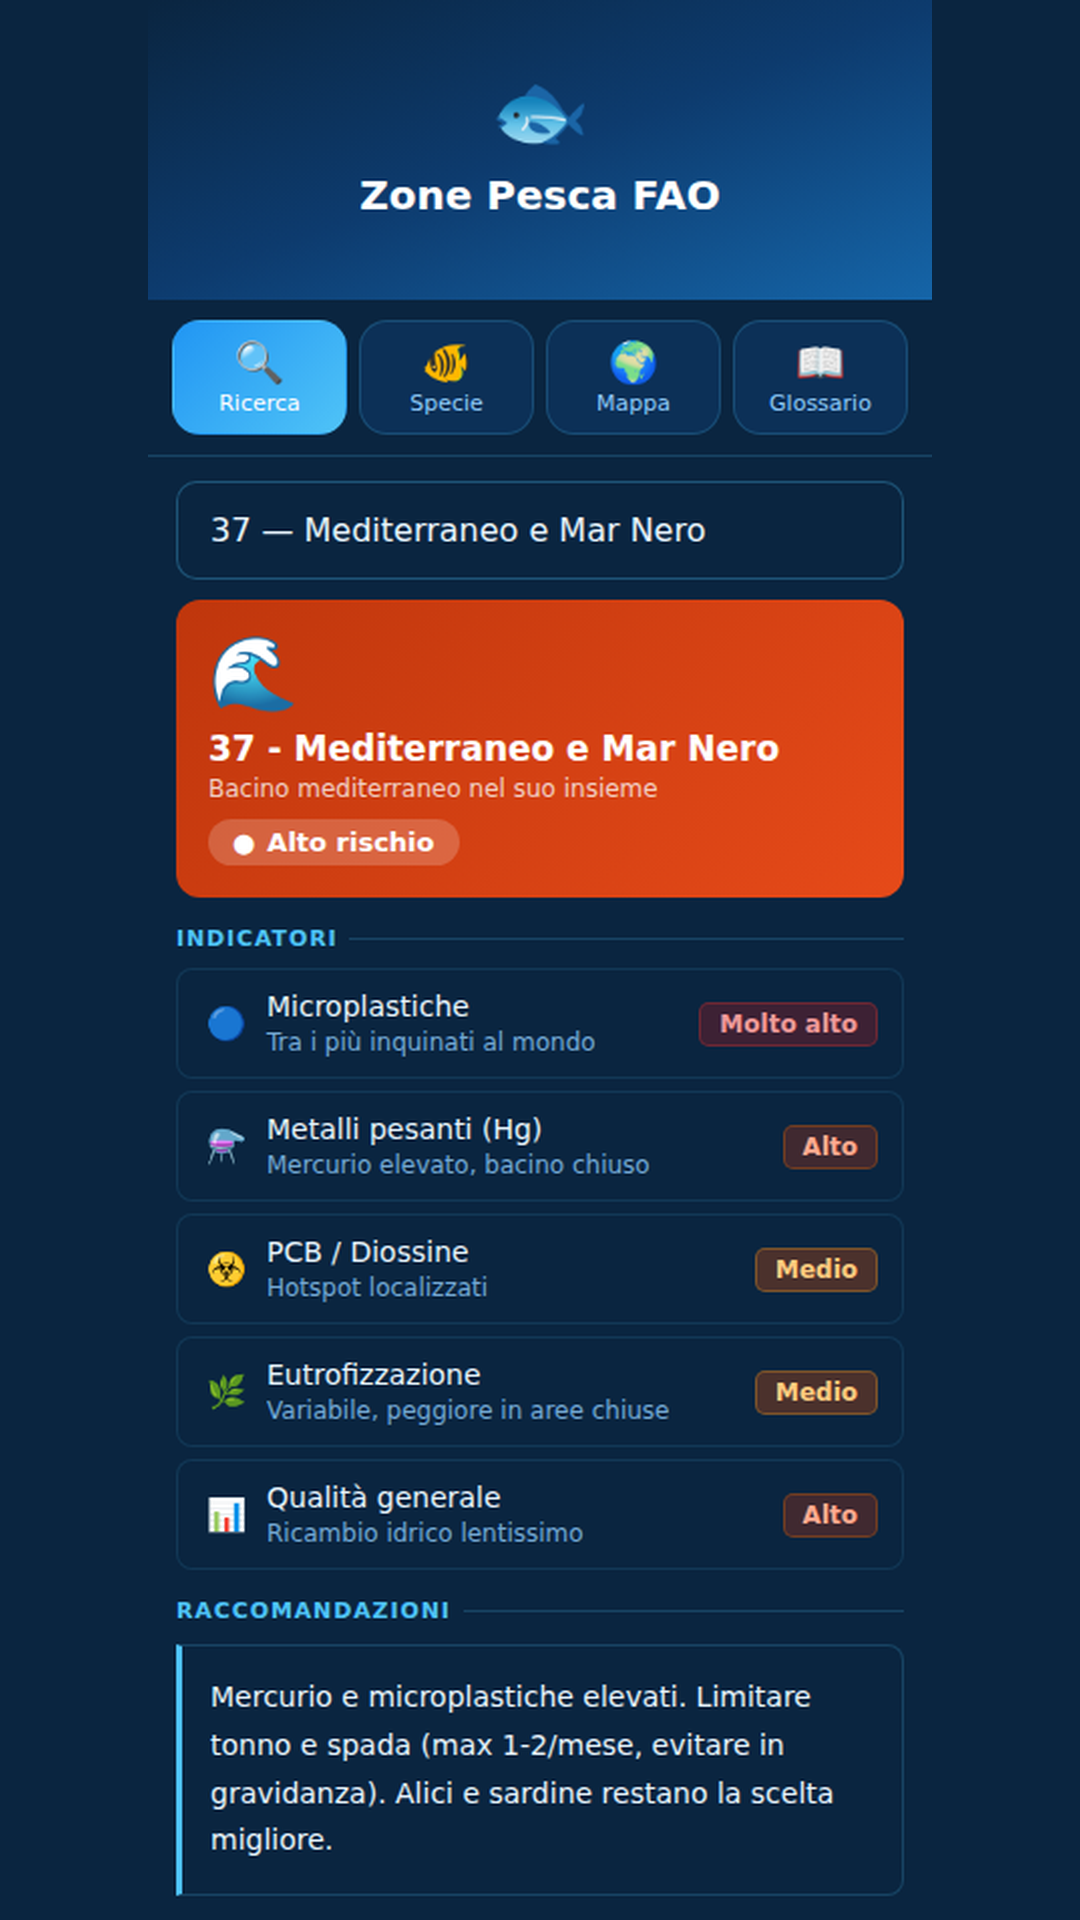
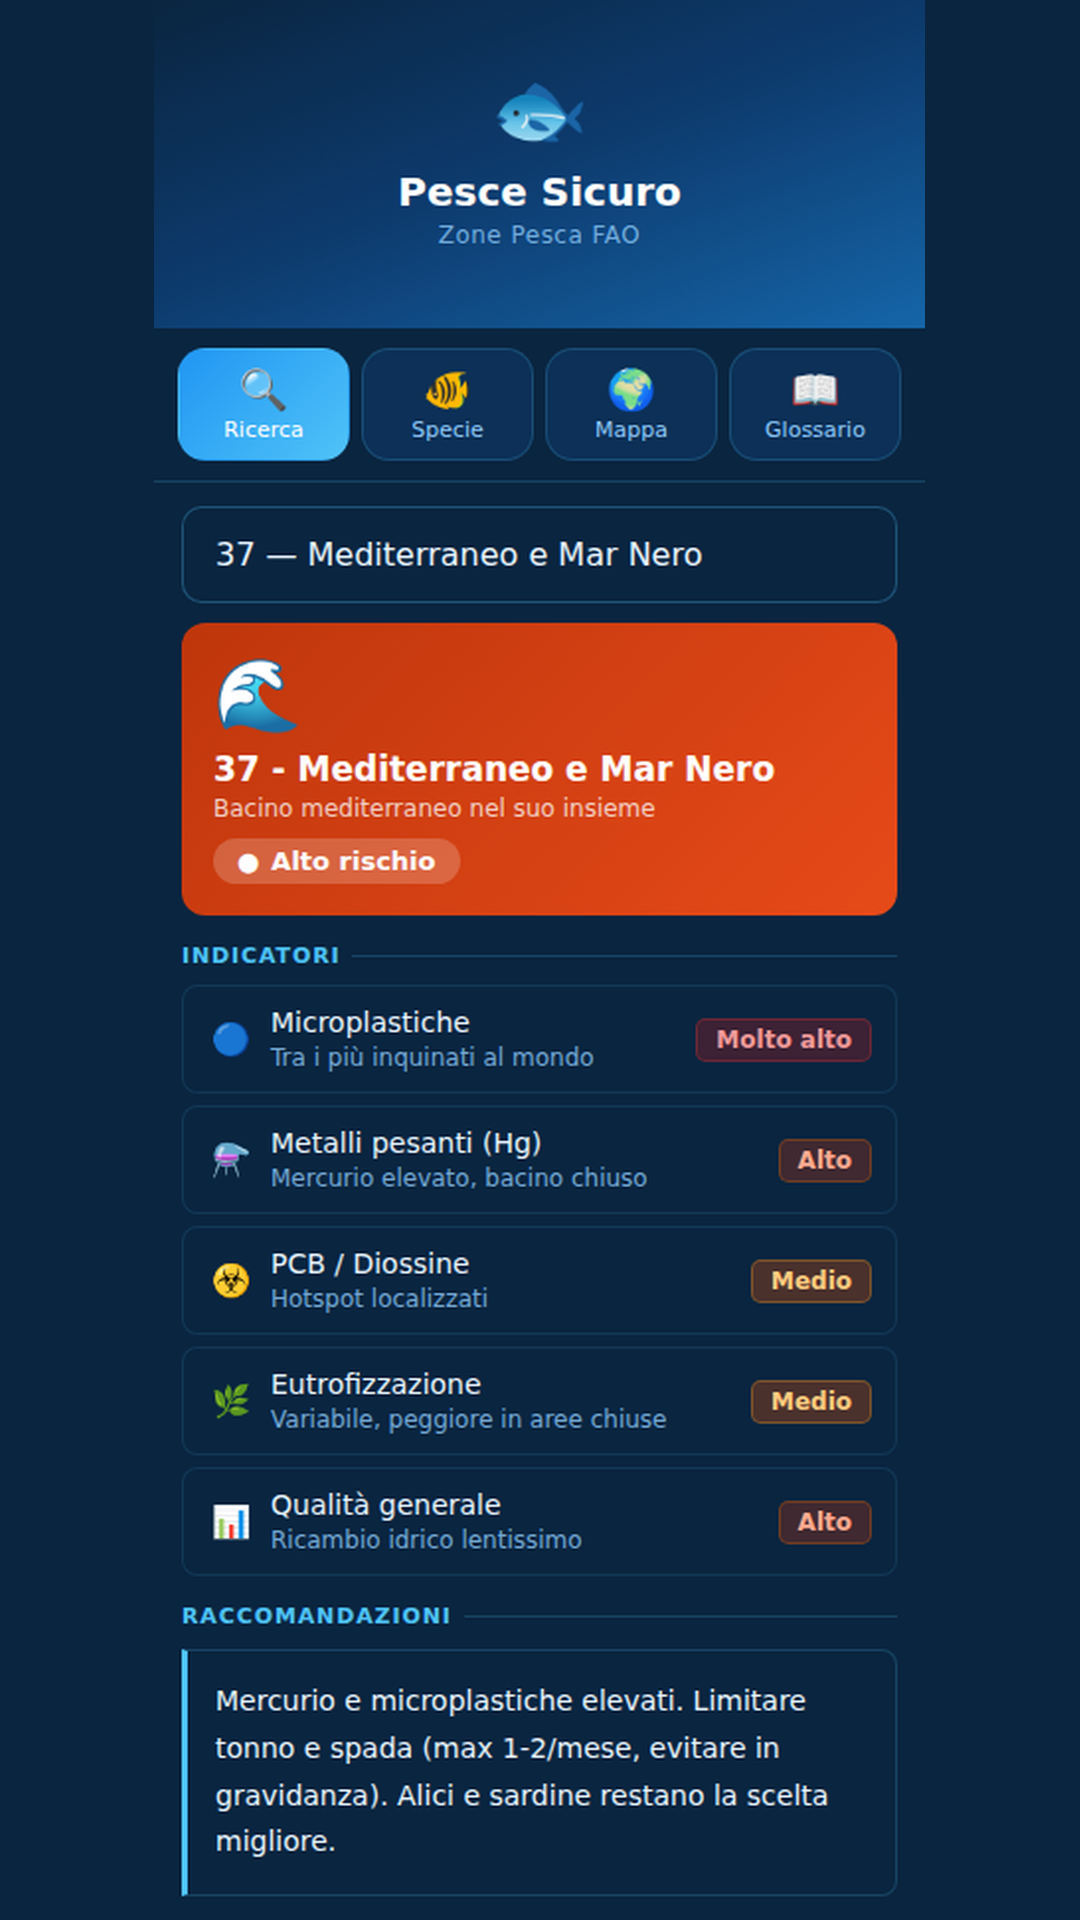
Modifica titoli

diff --git a/index.html b/index.html
@@ -3,11 +3,11 @@
 <head>
 <meta charset="UTF-8">
 <meta name="viewport" content="width=device-width, initial-scale=1.0, maximum-scale=1.0, user-scalable=no">
-<title>Zone Pesca FAO</title>
+<title>Pesce Sicuro</title>
 <meta name="theme-color" content="#0a2540">
 <meta name="mobile-web-app-capable" content="yes">
 <meta name="apple-mobile-web-app-capable" content="yes">
-<meta name="apple-mobile-web-app-title" content="PesceSicuro">
+<meta name="apple-mobile-web-app-title" content="Pesce Sicuro">
 <link rel="manifest" id="manifestLink">
 <link rel="apple-touch-icon" id="appleIcon">
 <style>
@@ -25,7 +25,7 @@ body{font-family:system-ui,-apple-system,sans-serif;background:var(--od);min-hei
 .hdr::before{content:'';position:absolute;inset:0;background:radial-gradient(ellipse at 50% 0%,rgba(79,195,247,0.15) 0%,transparent 70%)}
 .hdr-fish{font-size:clamp(32px,8vw,48px);display:block;margin-bottom:6px;filter:drop-shadow(0 0 16px rgba(79,195,247,0.6));animation:float 3s ease-in-out infinite}
 @keyframes float{0%,100%{transform:translateY(0) rotate(-3deg)}50%{transform:translateY(-8px) rotate(3deg)}}
-.hdr h1{font-size:clamp(16px,5vw,22px);font-weight:700;color:#fff;text-shadow:0 0 20px rgba(79,195,247,0.5)}
+.hdr h1{font-size:clamp(16px,5vw,22px);font-weight:700;color:#fff;text-shadow:0 0 20px rgba(79,195,247,0.5)}.hdr-sub{font-size:clamp(11px,2.8vw,13px);color:rgba(144,202,249,0.8);margin-top:3px;letter-spacing:0.04em}
 .bubbles{position:absolute;inset:0;pointer-events:none;overflow:hidden}
 .bubble{position:absolute;border-radius:50%;background:rgba(79,195,247,0.12);animation:rise linear infinite}
 @keyframes rise{0%{transform:translateY(100%) scale(0);opacity:0}20%{opacity:1}100%{transform:translateY(-200%) scale(1);opacity:0}}
@@ -138,7 +138,7 @@ input::placeholder{color:var(--td)}
 <div class="hdr">
   <div class="bubbles" id="bubbles"></div>
   <span class="hdr-fish">🐟</span>
-  <h1>Zone Pesca FAO</h1>
+  <h1>Pesce Sicuro</h1><p class="hdr-sub">Zone Pesca FAO</p>
   <svg class="wave" viewBox="0 0 1440 48" preserveAspectRatio="none" xmlns="http://www.w3.org/2000/svg">
     <path d="M0,24 C240,48 480,0 720,24 C960,48 1200,0 1440,24 L1440,48 L0,48 Z" fill="#0a2540"/>
   </svg>
@@ -212,7 +212,7 @@ input::placeholder{color:var(--td)}
 </div>
 
 <footer style="text-align:center;padding:0.5rem 1rem 0;font-size:11px;color:rgba(144,202,249,0.75);line-height:1.8">
-  © 2026 Cristiano Cinotti · Sviluppo Claude (Anthropic) · v 0.74<br>
+  © 2026 Cristiano Cinotti · Sviluppo Claude (Anthropic) · v 0.75<br>
   <span onclick="var p=document.getElementById('creditsPanel');p.style.display=p.style.display==='none'?'block':'none';p.scrollIntoView({behavior:'smooth',block:'nearest'})" style="cursor:pointer;text-decoration:underline;color:rgba(144,202,249,0.9)">Info &amp; crediti</span>
 </footer>
 <div id="creditsPanel" style="display:none;margin:0.5rem 1rem 1.5rem;border-radius:16px;background:linear-gradient(160deg,#0d3b6e,#0a2540);border:0.5px solid rgba(79,195,247,0.3);padding:1.25rem">
@@ -450,7 +450,7 @@ function buildGlossary(){
   var out=document.getElementById('glossCard');if(out.innerHTML)return;
   var html='';
   for(var i=0;i<GLOSSARY.length;i++){var g=GLOSSARY[i];html+='<div class="gl-item"><div class="gl-hdr" onclick="toggleGl('+i+')"><span class="gl-icon">'+g.icon+'</span><span class="gl-term">'+g.term+'</span><span class="gl-arr" id="ga'+i+'">›</span></div><div class="gl-body" id="gb'+i+'">'+g.body+'<br><span class="gl-tag '+g.tag.cls+'">'+g.tag.text+'</span></div></div>';}
-  html+='<div class="gl-item"><div class="gl-hdr" onclick="toggleGl(99)"><span class="gl-icon">ℹ</span><span class="gl-term">Info &amp; Crediti</span><span class="gl-arr" id="ga99">›</span></div><div class="gl-body" id="gb99"><strong>Sviluppato da</strong><br>👤 Cristiano Cinotti — concept &amp; design<br>🤖 Claude (Anthropic) — sviluppo<br><br><strong>Fonti</strong><br>🇪🇺 EFSA · 🌍 FAO · 🌊 MEDPOL/UNEP-MAP · 🏛 ISPRA/ARPA · ❄ HELCOM/OSPAR · 🇺🇸 NOAA/FDA<br><br><span style="font-size:11px;color:#ef9a9a">⚠ Dati indicativi al 2026.</span><br><span class="gl-tag info">v 0.74 · 2026</span></div></div>';
+  html+='<div class="gl-item"><div class="gl-hdr" onclick="toggleGl(99)"><span class="gl-icon">ℹ</span><span class="gl-term">Info &amp; Crediti</span><span class="gl-arr" id="ga99">›</span></div><div class="gl-body" id="gb99"><strong>Sviluppato da</strong><br>👤 Cristiano Cinotti — concept &amp; design<br>🤖 Claude (Anthropic) — sviluppo<br><br><strong>Fonti</strong><br>🇪🇺 EFSA · 🌍 FAO · 🌊 MEDPOL/UNEP-MAP · 🏛 ISPRA/ARPA · ❄ HELCOM/OSPAR · 🇺🇸 NOAA/FDA<br><br><span style="font-size:11px;color:#ef9a9a">⚠ Dati indicativi al 2026.</span><br><span class="gl-tag info">v 0.75 · 2026</span></div></div>';
   out.innerHTML=html;
 }
 function toggleGl(i){var b=document.getElementById('gb'+i),a=document.getElementById('ga'+i);var op=b.classList.contains('open');b.className='gl-body'+(op?'':' open');a.className='gl-arr'+(op?'':' open');}
